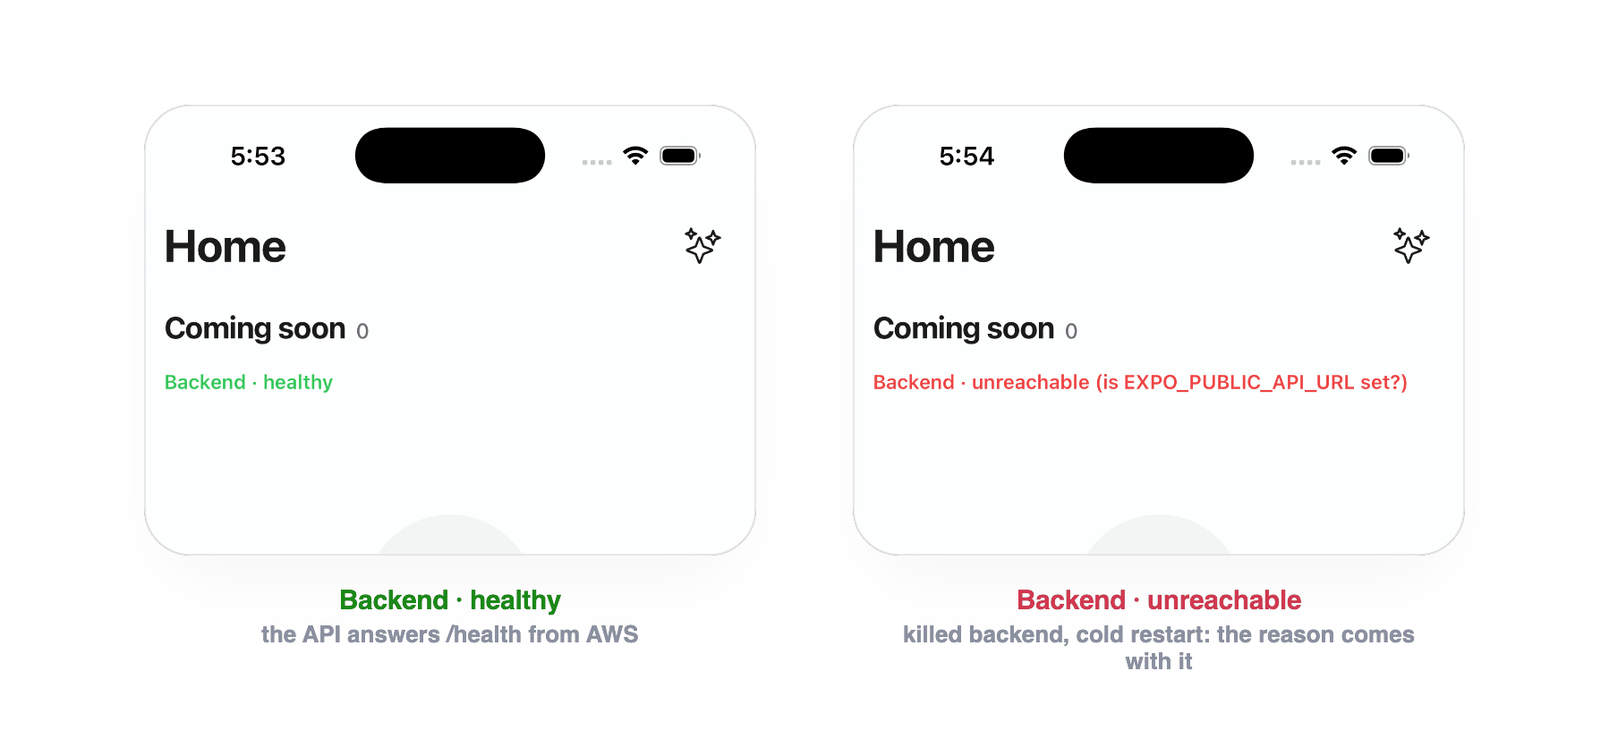
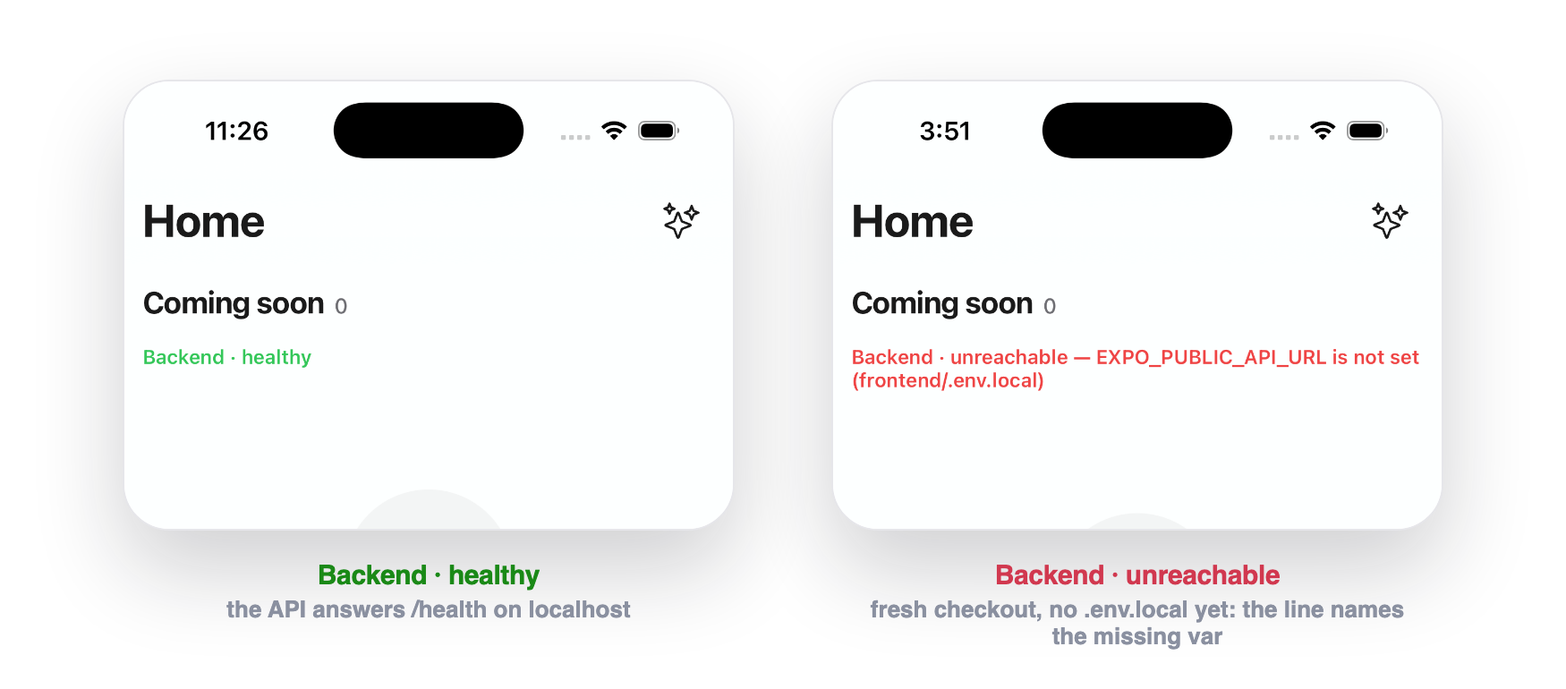
content(03-backend-core): apply 11 certification-review fixes
Applied to medium/03-backend-core.md and mirrored to the paste .html;
images re-rendered from their committed HTML sources.

- F1: recaptured shot-03-unreachable.png with the REAL app string
  (env-missing: "Backend · unreachable — EXPO_PUBLIC_API_URL is not set
  (frontend/.env.local)"); recaptured shot-03-healthy.png on the same
  simulator for a consistent proof composite. No more fabricated string.
- F2: The code line points at the step folder on main (current source),
  with PR #16 as the build's Files-changed story and the PR #21 follow-up.
- F3: teardown made truthful in subtitle, hero, and body (terraform
  destroy plus the one log-group sweep, not "nothing in one command").
- F4: SBOM overclaim fixed — provenance is the default culprit; the flag
  pins both attestations off (SBOM is opt-in).
- F5: file-map gains the terraform.tfvars.example row; count 18 -> 19.
- F6: added the real local-run command; done-when -> npx expo start -c --localhost.
- F7: footer 07 -> Whose Wish Is It Anyway?.
- F9: hero JSON {"status":"healthy"} (no space); 4th rollout command shown.
- F10: proof caption recaptioned to the local-run scenario.
- F11: trimmed the restated earn-dependencies lesson and the repeated
  "tag search proves it is gone".

Also restored parity in the paste .html (ecr:* / "*" code spans that the
prior mirror had mangled into <em> tags).

diff --git a/medium/03-backend-core.html b/medium/03-backend-core.html
@@ -26,7 +26,7 @@ a{color:#1a8917}
 font-size:15px;font-family:-apple-system,sans-serif;color:#7a6a00}
 </style></head><body>
 <h1>Alive on Arrival</h1>
-<p class="subtitle"><em>Zero to Shipped, step 3. A FastAPI backend live on your own AWS in four commands, torn down to nothing in one, and the two ways an image that runs on your laptop still arrives dead on App Runner.</em></p>
+<p class="subtitle"><em>Zero to Shipped, step 3. A FastAPI backend live on your own AWS in four commands, torn down to zero spend when you're done, and the two ways an image that runs on your laptop still arrives dead on App Runner.</em></p>
 <figure><img src="https://raw.githubusercontent.com/srivardhanjalan/kivan-tutorial/main/mocks/mocks-hero-03.png?v=PLACEHOLDER" alt="Zero to Shipped 03 hero: the app showing a green Backend healthy line beside a terminal running the staged rollout, ending in the App Runner service creation complete and curl returning status healthy"><figcaption>Zero to Shipped 03 hero: the app showing a green Backend healthy line beside a terminal running the staged rollout, ending in the App Runner service creation complete and curl returning status healthy</figcaption></figure>
 <p class="subtitle"><em>Zero to Shipped, step 3 of a production social-wishlist app built one shippable step at a time on Expo, FastAPI, and AWS.</em></p>
 <p class="subtitle"><em><a href="https://github.com/srivardhanjalan/kivan-tutorial">All the code</a> is on GitHub, every step a runnable folder.</em></p>
@@ -34,37 +34,37 @@ font-size:15px;font-family:-apple-system,sans-serif;color:#7a6a00}
 <p>The app has been a shell. Real screens, real navigation, and nothing behind them: every tab reads &quot;coming soon&quot; because there is no server to ask. This step gives the app a backend of its own, a FastAPI service running on AWS infrastructure you control. Writing the skeleton is the easy part. Getting it live, clean, and honest is the work, because it is four problems at once:</p>
 <ul><li><strong>A cloud stack leaves orphans.</strong> Click a resource into the console and it is untagged, ungrouped, and billed long after you think you tore it down.</li><li><strong>The service can&#x27;t boot from nothing.</strong> App Runner needs an image before it will create the service, but the image needs a registry that does not exist yet.</li><li><strong>An image that runs on your laptop can die on AWS.</strong> It builds, it runs locally, and App Runner rejects it with a bare failure and no logs to say why.</li><li><strong>A green status has to be earned.</strong> The app should prove it reaches the backend, and say why when it can&#x27;t, not just show a hopeful dot.</li></ul>
 <h2>What we build</h2>
-<p>A FastAPI backend deployed to your own AWS, every resource tagged into one group, torn down to nothing with a single command. Five moves get us there.</p>
+<p>A FastAPI backend deployed to your own AWS, every resource tagged into one group, torn down with <code>terraform destroy</code> plus one sweep for the two log groups App Runner writes on its own. Five moves get us there.</p>
 <p>We start with a skeleton that earns its dependencies: <code>main.py</code> only assembles, each route lives in its own file, and <code>requirements.txt</code> is two lines because the app reads nothing else yet. The stack lives in Terraform, one file per concern, and the provider stamps <code>Project</code> and <code>Environment</code> on every resource, so a single tag query lists the whole thing and proves when it is gone. That closes the orphan problem. The first rollout is staged into four commands, registry first and the service last, so App Runner never looks at an empty registry. The build runs one specific way, amd64 with attestations off, which is the difference between an image that boots on AWS and one that dies there. And the app grows a proof-of-life line: a green Backend healthy when it reaches the API, a red Backend unreachable with the reason when it can&#x27;t.</p>
 <p>What this step is not: there is no database, no auth, no queue. Those arrive with the steps that consume them (sign-in is step 4). The backend earns its dependencies exactly the way the frontend earned its design tokens back in step 2. Nothing joins before its first caller.</p>
 <p><strong>What we need:</strong> step 2 complete, an AWS account, and the Docker, Terraform, and AWS CLI that step 1&#x27;s setup installed (including the colima-rosetta Docker context). No secrets this step.</p>
 <p><strong>Time:</strong> about 45 to 60 minutes, most of it the first deploy.</p>
-<p><strong>The code:</strong> the snippets below are shown as images; the full, copyable source lives in <a href="https://github.com/srivardhanjalan/kivan-tutorial/pull/16/files">PR #16: Files changed</a>, organized by the file paths in each caption.</p>
+<p><strong>The code:</strong> the snippets below are shown as images; the full, copyable source is the <a href="https://github.com/srivardhanjalan/kivan-tutorial/tree/main/03-backend-core">step folder on <code>main</code></a>, organized by the file paths in each caption. <a href="https://github.com/srivardhanjalan/kivan-tutorial/pull/16/files">PR #16: Files changed</a> is the build&#x27;s story, with a follow-up in PR #21 tightening the ECR pulls to this one repository and dropping a credentialed wildcard CORS.</p>
 <h2>What we touch this step</h2>
-<p>Eighteen files carry the work, across the backend, the app, and the infra. Each build section below takes one area.</p>
-<figure><img src="https://raw.githubusercontent.com/srivardhanjalan/kivan-tutorial/main/mocks/mocks-03-filemap.png?v=PLACEHOLDER" alt="What we touch this step, eighteen files grouped by folder: the backend FastAPI skeleton (health route, main assembler, run, Dockerfile, requirements), the frontend proof-of-life line (api, ApiStatus, placeholder screen, env example), and the infra one file per concern (ecr, apprunner, iam, providers, resource-group, variables, outputs, deploy.sh); each file marked new or modified"><figcaption>What we touch this step, eighteen files grouped by folder: the backend FastAPI skeleton (health route, main assembler, run, Dockerfile, requirements), the frontend proof-of-life line (api, ApiStatus, placeholder screen, env example), and the infra one file per concern (ecr, apprunner, iam, providers, resource-group, variables, outputs, deploy.sh); each file marked new or modified</figcaption></figure>
+<p>Nineteen files carry the work, across the backend, the app, and the infra. Each build section below takes one area.</p>
+<figure><img src="https://raw.githubusercontent.com/srivardhanjalan/kivan-tutorial/main/mocks/mocks-03-filemap.png?v=PLACEHOLDER" alt="What we touch this step, nineteen files grouped by folder: the backend FastAPI skeleton (health route, main assembler, run, Dockerfile, requirements), the frontend proof-of-life line (api, ApiStatus, placeholder screen, env example), and the infra one file per concern (ecr, apprunner, iam, providers, resource-group, variables, outputs, tfvars example, deploy.sh); each file marked new or modified"><figcaption>What we touch this step, nineteen files grouped by folder: the backend FastAPI skeleton (health route, main assembler, run, Dockerfile, requirements), the frontend proof-of-life line (api, ApiStatus, placeholder screen, env example), and the infra one file per concern (ecr, apprunner, iam, providers, resource-group, variables, outputs, tfvars example, deploy.sh); each file marked new or modified</figcaption></figure>
 <h2>Give the backend a skeleton, not a framework</h2>
-<p>The temptation on a first backend is to wire in everything you will eventually need: a database client, an auth layer, a task queue. Resist it. Every dependency you add now is one you carry, patch, and debug before a single feature uses it. So the skeleton is bare on purpose: one health route, and an assembler that includes it.</p>
+<p>The skeleton is bare on purpose: one health route, and an assembler that includes it. That single route is all App Runner needs to health-check, and all the app needs to prove it can reach the backend.</p>
 <figure><a href="https://github.com/srivardhanjalan/kivan-tutorial/blob/main/03-backend-core/backend/app/routes/health.py"><img src="https://raw.githubusercontent.com/srivardhanjalan/kivan-tutorial/main/mocks/mocks-03-code-health.png?v=PLACEHOLDER" alt="The health route in its own file: GET /health returns status healthy"></a><figcaption><a class="src" href="https://github.com/srivardhanjalan/kivan-tutorial/blob/main/03-backend-core/backend/app/routes/health.py">The health route in its own file: GET /health returns status healthy ↗</a></figcaption></figure>
 <p><code>main.py</code> does nothing but assemble: it creates the app, adds gzip and CORS middleware, and includes the router. Routes never live in <code>main.py</code>; each domain gets its own file under <code>app/routes/</code>, so the structure that will hold every later router already holds this one. The CORS origin is a wildcard, and that is safe here on purpose: nothing is cookie-authenticated yet (the Bearer token arrives in step 4), so an open origin has no credentials to leak. <code>requirements.txt</code> is two lines, FastAPI and Uvicorn, and it stays that short until a feature needs more.</p>
 <h2>Describe the stack in Terraform, one file per concern</h2>
 <p>Everything the backend runs on is code in the <code>infra/</code> folder, and the first rule is that no resource is ever born in the console. A console-created resource is untagged and ungrouped, which means it survives <code>terraform destroy</code> and quietly bills you. So the provider stamps a <code>Project</code> and <code>Environment</code> tag on every resource it makes:</p>
 <figure><a href="https://github.com/srivardhanjalan/kivan-tutorial/blob/main/03-backend-core/infra/providers.tf"><img src="https://raw.githubusercontent.com/srivardhanjalan/kivan-tutorial/main/mocks/mocks-03-code-providers.png?v=PLACEHOLDER" alt="The AWS provider with default_tags, stamping Project and Environment on every resource"></a><figcaption><a class="src" href="https://github.com/srivardhanjalan/kivan-tutorial/blob/main/03-backend-core/infra/providers.tf">The AWS provider with default_tags, stamping Project and Environment on every resource ↗</a></figcaption></figure>
-<p>Those tags feed <code>resource-group.tf</code>, a group defined by one query: everything tagged <code>Project=kivan</code>. One console page then shows your whole stack, and a tag search across the account is how you prove it is gone after a teardown.</p>
+<p>Those tags feed <code>resource-group.tf</code>, a group defined by one query: everything tagged <code>Project=kivan</code>. One console page then shows your whole stack.</p>
 <p>The registry comes next. App Runner pulls the backend image from ECR, so <code>ecr.tf</code> creates the repository and a lifecycle rule that keeps only the last ten images, so old builds do not pile up:</p>
 <figure><a href="https://github.com/srivardhanjalan/kivan-tutorial/blob/main/03-backend-core/infra/ecr.tf"><img src="https://raw.githubusercontent.com/srivardhanjalan/kivan-tutorial/main/mocks/mocks-03-code-ecr.png?v=PLACEHOLDER" alt="The ECR repository and a lifecycle rule that keeps only the last ten images"></a><figcaption><a class="src" href="https://github.com/srivardhanjalan/kivan-tutorial/blob/main/03-backend-core/infra/ecr.tf">The ECR repository and a lifecycle rule that keeps only the last ten images ↗</a></figcaption></figure>
 <p>Then the service itself. <code>apprunner.tf</code> points App Runner at <code>:latest</code> in that registry, turns on auto-deploy so a new push rolls out on its own, and health-checks the container on <code>/health</code>, the exact route the skeleton serves:</p>
 <figure><a href="https://github.com/srivardhanjalan/kivan-tutorial/blob/main/03-backend-core/infra/apprunner.tf"><img src="https://raw.githubusercontent.com/srivardhanjalan/kivan-tutorial/main/mocks/mocks-03-code-apprunner.png?v=PLACEHOLDER" alt="The App Runner service pointed at :latest, auto-deploying, health-checked on /health"></a><figcaption><a class="src" href="https://github.com/srivardhanjalan/kivan-tutorial/blob/main/03-backend-core/infra/apprunner.tf">The App Runner service pointed at :latest, auto-deploying, health-checked on /health ↗</a></figcaption></figure>
 <h2>Give App Runner the smallest key that works</h2>
-<p>App Runner needs to pull images, and the lazy grant is <code>ecr:<em></code> on <code>&quot;</em>&quot;</code>. We don&#x27;t. The role gets exactly two things: permission to fetch a registry login token, which genuinely has to be account-wide, and permission to pull images from this one repository, named by ARN. Nothing else.</p>
+<p>App Runner needs to pull images, and the lazy grant is <code>ecr:*</code> on <code>&quot;*&quot;</code>. We don&#x27;t. The role gets exactly two things: permission to fetch a registry login token, which genuinely has to be account-wide, and permission to pull images from this one repository, named by ARN. Nothing else.</p>
 <figure><a href="https://github.com/srivardhanjalan/kivan-tutorial/blob/main/03-backend-core/infra/iam.tf"><img src="https://raw.githubusercontent.com/srivardhanjalan/kivan-tutorial/main/mocks/mocks-03-code-iam.png?v=PLACEHOLDER" alt="The ECR-access policy: a login token account-wide, image pulls scoped to one repository by ARN"></a><figcaption><a class="src" href="https://github.com/srivardhanjalan/kivan-tutorial/blob/main/03-backend-core/infra/iam.tf">The ECR-access policy: a login token account-wide, image pulls scoped to one repository by ARN ↗</a></figcaption></figure>
 <p>The split matters. <code>ecr:GetAuthorizationToken</code> issues the login and cannot be scoped to a repository, so it takes <code>&quot;*&quot;</code>; every other action is pinned to <code>aws_ecr_repository.backend.arn</code>. If this role ever leaks, it can read one repository&#x27;s images, not touch your whole account.</p>
 <h2>Let the app prove it can reach the backend</h2>
 <p>A backend you can&#x27;t see from the app is a backend you can&#x27;t trust. So step 2&#x27;s shell grows one honest line under each tab header. It calls <code>/health</code> on startup and reports what happened.</p>
 <figure><a href="https://github.com/srivardhanjalan/kivan-tutorial/blob/main/03-backend-core/frontend/src/services/api.ts"><img src="https://raw.githubusercontent.com/srivardhanjalan/kivan-tutorial/main/mocks/mocks-03-code-api.png?v=PLACEHOLDER" alt="The API root: reads EXPO_PUBLIC_API_URL from .env.local, resolves on /health, rejects with a readable reason"></a><figcaption><a class="src" href="https://github.com/srivardhanjalan/kivan-tutorial/blob/main/03-backend-core/frontend/src/services/api.ts">The API root: reads EXPO_PUBLIC_API_URL from .env.local, resolves on /health, rejects with a readable reason ↗</a></figcaption></figure>
 <p><code>api.ts</code> holds the whole contract. It reads <code>EXPO_PUBLIC_API_URL</code> from the gitignored <code>.env.local</code> (your localhost while developing, your App Runner URL once deployed) and resolves only when <code>/health</code> answers. When it can&#x27;t, it rejects with a human-readable reason, and the <code>ApiStatus</code> line renders that reason in red. The caller shows the line; <code>api.ts</code> owns the diagnosis, so the app never shows a vague failure.</p>
-<p>Run the backend locally, point <code>.env.local</code> at <code>http://localhost:8000</code>, and every tab turns green. Kill the backend, cold-restart the app, and the same line turns red and tells you why.</p>
-<figure><img src="https://raw.githubusercontent.com/srivardhanjalan/kivan-tutorial/main/mocks/mocks-03-proof.png?v=PLACEHOLDER" alt="The proof-of-life line in the real app: a green Backend healthy when the API answers, a red Backend unreachable with the reason after a killed backend and cold restart"><figcaption>The proof-of-life line in the real app: a green Backend healthy when the API answers, a red Backend unreachable with the reason after a killed backend and cold restart</figcaption></figure>
+<p>Run the backend locally with <code>cd backend &amp;&amp; python3 -m venv .venv &amp;&amp; .venv/bin/pip install -r requirements.txt &amp;&amp; .venv/bin/python run.py</code>, point <code>.env.local</code> at <code>http://localhost:8000</code>, and every tab turns green. Miss that <code>.env.local</code> on a fresh checkout, or kill the backend and cold-restart, and the same line turns red and names the exact reason.</p>
+<figure><img src="https://raw.githubusercontent.com/srivardhanjalan/kivan-tutorial/main/mocks/mocks-03-proof.png?v=PLACEHOLDER" alt="The proof-of-life line in the real app: a green Backend healthy when the API answers on localhost, and a red Backend unreachable naming the missing EXPO_PUBLIC_API_URL on a fresh checkout before .env.local exists"><figcaption>The proof-of-life line in the real app: a green Backend healthy when the API answers on localhost, and a red Backend unreachable naming the missing EXPO_PUBLIC_API_URL on a fresh checkout before .env.local exists</figcaption></figure>
 <h2>Deploy it</h2>
 <p>Now the real thing, on AWS. The first rollout is staged because of a chicken-and-egg: App Runner will not create a service from a registry with no image in it. So we build the registry, push an image into it, and only then create the service:</p>
 <figure><a href="https://github.com/srivardhanjalan/kivan-tutorial/tree/main/03-backend-core/infra"><img src="https://raw.githubusercontent.com/srivardhanjalan/kivan-tutorial/main/mocks/mocks-03-code-rollout.png?v=PLACEHOLDER" alt="The staged first rollout: terraform init, apply the ECR repository, deploy.sh to push an image, apply the service, deploy.sh again to tag the log groups"></a><figcaption><a class="src" href="https://github.com/srivardhanjalan/kivan-tutorial/tree/main/03-backend-core/infra">The staged first rollout: terraform init, apply the ECR repository, deploy.sh to push an image, apply the service, deploy.sh again to tag the log groups ↗</a></figcaption></figure>
@@ -73,14 +73,14 @@ font-size:15px;font-family:-apple-system,sans-serif;color:#7a6a00}
 <p>The fourth command is that same <code>deploy.sh</code>, run once more after the service exists. App Runner creates two log groups itself, named with a service ID that does not exist until the service does, so Terraform can&#x27;t own them; the re-run tags them into the resource group and caps their retention at 30 days. Grab the service URL from <code>terraform output</code>, put it in <code>.env.local</code>, restart Expo, and the green line is now served from AWS. When you&#x27;re done, <code>terraform destroy</code> removes the stack; sweep those two log groups after, and a tag search finds nothing left.</p>
 <h2>What bit me</h2>
 <p>Two things cost me real time on this step, worst first.</p>
-<p><strong><code>CREATE_FAILED</code>, empty logs, and the image was innocent.</strong> My first deploy on this step waited three minutes on <code>terraform apply</code>, then returned a bare <code>CREATE_FAILED</code> with an empty log group: the container never printed a line. The same image had built and run fine on my Mac. The cause was BuildKit. Newer Docker attaches provenance and SBOM attestation manifests to a push by default, which turns the image into an OCI index; updating an existing service tolerates that, but creating one does not, and it fails before the first log line, so there is nothing to read. Building with <code>--provenance=false --sbom=false</code> brought the service up <code>RUNNING</code> on identical application code. I had been hunting a bug in code that was never wrong. (There is a second, separate way to earn this exact failure: a QEMU-built amd64 image on Apple Silicon. Step 1&#x27;s colima-rosetta context is what keeps us clear of it, and it is why <code>deploy.sh</code> builds there.)</p>
+<p><strong><code>CREATE_FAILED</code>, empty logs, and the image was innocent.</strong> My first deploy on this step waited three minutes on <code>terraform apply</code>, then returned a bare <code>CREATE_FAILED</code> with an empty log group: the container never printed a line. The same image had built and run fine on my Mac. The cause was BuildKit. Newer Docker attaches a provenance attestation manifest to a push by default, which turns the image into an OCI index; updating an existing service tolerates that, but creating one does not, and it fails before the first log line, so there is nothing to read. Provenance is the default culprit; the deploy pins <code>--provenance=false --sbom=false</code> to keep every attestation manifest out of the push (SBOM is opt-in rather than default, but the flag keeps it out too), which brought the service up <code>RUNNING</code> on identical application code. I had been hunting a bug in code that was never wrong. (There is a second, separate way to earn this exact failure: a QEMU-built amd64 image on Apple Silicon. Step 1&#x27;s colima-rosetta context is what keeps us clear of it, and it is why <code>deploy.sh</code> builds there.)</p>
 <p><strong>The green line that stayed red after I pointed it at AWS.</strong> I deployed, put the App Runner URL in <code>.env.local</code>, reloaded the app, and the status line kept hitting localhost. <code>EXPO_PUBLIC_*</code> values are inlined at bundle time, not read at runtime, so a hot reload never picked up the new URL. Restarting the dev server with <code>npx expo start -c --localhost</code> (the <code>-c</code> clears the cache) was the fix, and the line went green against AWS.</p>
 <h2>You&#x27;re done when</h2>
-<ul><li>☐ <code>curl localhost:8000/health</code> returns <code>{&quot;status&quot;:&quot;healthy&quot;}</code>.</li><li>☐ Every tab shows a green Backend healthy line, first against localhost.</li><li>☐ After the four-command rollout and pointing <code>.env.local</code> at the App Runner URL (with <code>expo start -c</code>), the same green line is served from AWS.</li><li>☐ Stop the backend, cold-restart the app, and the line turns red with the reason.</li><li>☐ <code>terraform destroy</code> plus the log-group sweep leaves no resource behind: a tag search finds nothing.</li></ul>
+<ul><li>☐ <code>curl localhost:8000/health</code> returns <code>{&quot;status&quot;:&quot;healthy&quot;}</code>.</li><li>☐ Every tab shows a green Backend healthy line, first against localhost.</li><li>☐ After the four-command rollout and pointing <code>.env.local</code> at the App Runner URL (with <code>npx expo start -c --localhost</code>), the same green line is served from AWS.</li><li>☐ Stop the backend, cold-restart the app, and the line turns red with the reason.</li><li>☐ <code>terraform destroy</code> plus the log-group sweep leaves no resource behind: a tag search finds nothing.</li></ul>
 <h2>What&#x27;s next</h2>
 <p>Step 4, Signed, Sealed, Delivered: the app gets real users. Clerk sign-in, JWKS verification on the backend, and a user record created just in time, the moment <code>name</code> and <code>scheme</code> finally earn their place in the config.</p>
 <hr>
 <p><strong>Zero to Shipped: the series</strong></p>
-<ul><li><strong>00 · <a href="https://medium.com/@srivardhanjalan/zero-to-shipped-2c13ce7e20e9">Introduction</a></strong></li><li><strong>01 · <a href="https://medium.com/@srivardhanjalan/one-script-to-set-up-everything-ae8bcea2d649">One script to set up everything</a></strong></li><li><strong>02 · <a href="https://medium.com/@srivardhanjalan/dressed-to-ship-1e2591179d8a">Dressed to Ship</a></strong></li><li><strong>03 · Alive on Arrival</strong> (you are here)</li><li><strong>04 · <a href="https://medium.com/@srivardhanjalan/signed-sealed-delivered-a481a02ac392">Signed, Sealed, Delivered</a></strong></li><li><strong>05 · <a href="https://medium.com/@srivardhanjalan/two-places-at-once-1e00bb46354b">Two Places at Once</a></strong></li><li><strong>06 · <a href="https://medium.com/@srivardhanjalan/photos-without-the-exposure-96e9acf11db3">Photos Without the Exposure</a></strong></li><li><strong>07 · Collections</strong> (coming soon)</li></ul>
+<ul><li><strong>00 · <a href="https://medium.com/@srivardhanjalan/zero-to-shipped-2c13ce7e20e9">Introduction</a></strong></li><li><strong>01 · <a href="https://medium.com/@srivardhanjalan/one-script-to-set-up-everything-ae8bcea2d649">One script to set up everything</a></strong></li><li><strong>02 · <a href="https://medium.com/@srivardhanjalan/dressed-to-ship-1e2591179d8a">Dressed to Ship</a></strong></li><li><strong>03 · Alive on Arrival</strong> (you are here)</li><li><strong>04 · <a href="https://medium.com/@srivardhanjalan/signed-sealed-delivered-a481a02ac392">Signed, Sealed, Delivered</a></strong></li><li><strong>05 · <a href="https://medium.com/@srivardhanjalan/two-places-at-once-1e00bb46354b">Two Places at Once</a></strong></li><li><strong>06 · <a href="https://medium.com/@srivardhanjalan/photos-without-the-exposure-96e9acf11db3">Photos Without the Exposure</a></strong></li><li><strong>07 · Whose Wish Is It Anyway?</strong> (coming soon)</li></ul>
 <p><strong><a href="https://github.com/srivardhanjalan/kivan-tutorial">All the code on GitHub</a></strong></p>
 </body></html>

diff --git a/mocks/img-03-filemap.html b/mocks/img-03-filemap.html
@@ -30,7 +30,7 @@
   <h1>What we touch this step
     <span class="legend"><span><span class="dot new"></span>new</span><span><span class="dot mod"></span>modified</span></span>
   </h1>
-  <p class="sub">Eighteen files carry the work, across the backend, the app, and the infra. Each section below builds one area.</p>
+  <p class="sub">Nineteen files carry the work, across the backend, the app, and the infra. Each section below builds one area.</p>
   <div class="cols">
     <div class="grp">
       <h2>Backend &#183; the FastAPI skeleton</h2>
@@ -61,6 +61,7 @@
       <div class="row"><span class="badge b-new">new</span><span class="fc"><span class="path">providers.tf</span><span class="note"># AWS provider, default_tags on every resource</span></span></div>
       <div class="row"><span class="badge b-new">new</span><span class="fc"><span class="path">resource-group.tf</span><span class="note"># the tag-based group holding the whole stack</span></span></div>
       <div class="row"><span class="badge b-new">new</span><span class="fc"><span class="path">variables.tf &#183; outputs.tf</span><span class="note"># region/env/cpu, the service + ECR URLs</span></span></div>
+      <div class="row"><span class="badge b-new">new</span><span class="fc"><span class="path">terraform.tfvars.example</span><span class="note"># copy to terraform.tfvars (gitignored)</span></span></div>
       <div class="row"><span class="badge b-new">new</span><span class="fc"><span class="path">scripts/deploy.sh</span><span class="note"># build amd64, push, tag the log groups</span></span></div>
     </div>
   </div>

diff --git a/mocks/hero-03.html b/mocks/hero-03.html
@@ -26,7 +26,7 @@
   <div class="copy">
     <div class="eyebrow">Zero to Shipped &#183; 03 &#183; Backend Core</div>
     <div class="title">Alive on&nbsp;arrival.</div>
-    <div class="sub">A FastAPI backend live on your own AWS in four commands, every resource tagged and grouped, gone without a trace in one.</div>
+    <div class="sub">A FastAPI backend live on your own AWS in four commands, every resource tagged and grouped, torn down to zero spend when you're done.</div>
     <div class="chips">
       <span class="chip">React Native</span><span class="chip">FastAPI</span>
       <span class="chip">Terraform</span><span class="chip">App Runner</span><span class="chip">Amazon ECR</span>
@@ -44,8 +44,9 @@
 <span class="dim">$</span> ./scripts/deploy.sh&nbsp;&nbsp;<span class="dim"># build amd64 -&gt; push</span><br>
 <span class="dim">$</span> terraform apply&nbsp;&nbsp;<span class="dim"># the service (~5 min)</span><br>
 &nbsp;&nbsp;aws_apprunner_service.backend_ecr: <span class="g">Creation complete</span><br>
+<span class="dim">$</span> ./scripts/deploy.sh&nbsp;&nbsp;<span class="dim"># re-run: tag log groups</span><br>
 <span class="dim">$</span> curl https://&#8230;awsapprunner.com/health<br>
-{"status": <span class="g">"healthy"</span>}
+{"status":<span class="g">"healthy"</span>}
     </div>
   </div>
   <div class="shot"><img src="shot-03-healthy.png"></div>

diff --git a/mocks/img-03-proof.html b/mocks/img-03-proof.html
@@ -15,12 +15,12 @@
     <div class="item">
       <div class="phone"><img src="shot-03-healthy.png"></div>
       <div class="cap up">Backend &#183; healthy</div>
-      <div class="sub">the API answers /health from AWS</div>
+      <div class="sub">the API answers /health on localhost</div>
     </div>
     <div class="item">
       <div class="phone"><img src="shot-03-unreachable.png"></div>
       <div class="cap down">Backend &#183; unreachable</div>
-      <div class="sub">killed backend, cold restart: the reason comes with it</div>
+      <div class="sub">fresh checkout, no .env.local yet: the line names the missing var</div>
     </div>
   </div>
 </body></html>

diff --git a/medium/03-backend-core.md b/medium/03-backend-core.md
@@ -1,6 +1,6 @@
 # Alive on Arrival
 
-*Zero to Shipped, step 3. A FastAPI backend live on your own AWS in four commands, torn down to nothing in one, and the two ways an image that runs on your laptop still arrives dead on App Runner.*
+*Zero to Shipped, step 3. A FastAPI backend live on your own AWS in four commands, torn down to zero spend when you're done, and the two ways an image that runs on your laptop still arrives dead on App Runner.*
 
 ![Zero to Shipped 03 hero: the app showing a green Backend healthy line beside a terminal running the staged rollout, ending in the App Runner service creation complete and curl returning status healthy](https://raw.githubusercontent.com/srivardhanjalan/kivan-tutorial/main/mocks/mocks-hero-03.png?v=PLACEHOLDER)
 
@@ -19,7 +19,7 @@ The app has been a shell. Real screens, real navigation, and nothing behind them
 
 ## What we build
 
-A FastAPI backend deployed to your own AWS, every resource tagged into one group, torn down to nothing with a single command. Five moves get us there.
+A FastAPI backend deployed to your own AWS, every resource tagged into one group, torn down with `terraform destroy` plus one sweep for the two log groups App Runner writes on its own. Five moves get us there.
 
 We start with a skeleton that earns its dependencies: `main.py` only assembles, each route lives in its own file, and `requirements.txt` is two lines because the app reads nothing else yet. The stack lives in Terraform, one file per concern, and the provider stamps `Project` and `Environment` on every resource, so a single tag query lists the whole thing and proves when it is gone. That closes the orphan problem. The first rollout is staged into four commands, registry first and the service last, so App Runner never looks at an empty registry. The build runs one specific way, amd64 with attestations off, which is the difference between an image that boots on AWS and one that dies there. And the app grows a proof-of-life line: a green Backend healthy when it reaches the API, a red Backend unreachable with the reason when it can't.
 
@@ -29,17 +29,17 @@ What this step is not: there is no database, no auth, no queue. Those arrive wit
 
 **Time:** about 45 to 60 minutes, most of it the first deploy.
 
-**The code:** the snippets below are shown as images; the full, copyable source lives in [PR #16: Files changed](https://github.com/srivardhanjalan/kivan-tutorial/pull/16/files), organized by the file paths in each caption.
+**The code:** the snippets below are shown as images; the full, copyable source is the [step folder on `main`](https://github.com/srivardhanjalan/kivan-tutorial/tree/main/03-backend-core), organized by the file paths in each caption. [PR #16: Files changed](https://github.com/srivardhanjalan/kivan-tutorial/pull/16/files) is the build's story, with a follow-up in PR #21 tightening the ECR pulls to this one repository and dropping a credentialed wildcard CORS.
 
 ## What we touch this step
 
-Eighteen files carry the work, across the backend, the app, and the infra. Each build section below takes one area.
+Nineteen files carry the work, across the backend, the app, and the infra. Each build section below takes one area.
 
-![What we touch this step, eighteen files grouped by folder: the backend FastAPI skeleton (health route, main assembler, run, Dockerfile, requirements), the frontend proof-of-life line (api, ApiStatus, placeholder screen, env example), and the infra one file per concern (ecr, apprunner, iam, providers, resource-group, variables, outputs, deploy.sh); each file marked new or modified](https://raw.githubusercontent.com/srivardhanjalan/kivan-tutorial/main/mocks/mocks-03-filemap.png?v=PLACEHOLDER)
+![What we touch this step, nineteen files grouped by folder: the backend FastAPI skeleton (health route, main assembler, run, Dockerfile, requirements), the frontend proof-of-life line (api, ApiStatus, placeholder screen, env example), and the infra one file per concern (ecr, apprunner, iam, providers, resource-group, variables, outputs, tfvars example, deploy.sh); each file marked new or modified](https://raw.githubusercontent.com/srivardhanjalan/kivan-tutorial/main/mocks/mocks-03-filemap.png?v=PLACEHOLDER)
 
 ## Give the backend a skeleton, not a framework
 
-The temptation on a first backend is to wire in everything you will eventually need: a database client, an auth layer, a task queue. Resist it. Every dependency you add now is one you carry, patch, and debug before a single feature uses it. So the skeleton is bare on purpose: one health route, and an assembler that includes it.
+The skeleton is bare on purpose: one health route, and an assembler that includes it. That single route is all App Runner needs to health-check, and all the app needs to prove it can reach the backend.
 
 [![The health route in its own file: GET /health returns status healthy](https://raw.githubusercontent.com/srivardhanjalan/kivan-tutorial/main/mocks/mocks-03-code-health.png?v=PLACEHOLDER)](https://github.com/srivardhanjalan/kivan-tutorial/blob/main/03-backend-core/backend/app/routes/health.py)
 
@@ -51,7 +51,7 @@ Everything the backend runs on is code in the `infra/` folder, and the first rul
 
 [![The AWS provider with default_tags, stamping Project and Environment on every resource](https://raw.githubusercontent.com/srivardhanjalan/kivan-tutorial/main/mocks/mocks-03-code-providers.png?v=PLACEHOLDER)](https://github.com/srivardhanjalan/kivan-tutorial/blob/main/03-backend-core/infra/providers.tf)
 
-Those tags feed `resource-group.tf`, a group defined by one query: everything tagged `Project=kivan`. One console page then shows your whole stack, and a tag search across the account is how you prove it is gone after a teardown.
+Those tags feed `resource-group.tf`, a group defined by one query: everything tagged `Project=kivan`. One console page then shows your whole stack.
 
 The registry comes next. App Runner pulls the backend image from ECR, so `ecr.tf` creates the repository and a lifecycle rule that keeps only the last ten images, so old builds do not pile up:
 
@@ -77,9 +77,9 @@ A backend you can't see from the app is a backend you can't trust. So step 2's s
 
 `api.ts` holds the whole contract. It reads `EXPO_PUBLIC_API_URL` from the gitignored `.env.local` (your localhost while developing, your App Runner URL once deployed) and resolves only when `/health` answers. When it can't, it rejects with a human-readable reason, and the `ApiStatus` line renders that reason in red. The caller shows the line; `api.ts` owns the diagnosis, so the app never shows a vague failure.
 
-Run the backend locally, point `.env.local` at `http://localhost:8000`, and every tab turns green. Kill the backend, cold-restart the app, and the same line turns red and tells you why.
+Run the backend locally with `cd backend && python3 -m venv .venv && .venv/bin/pip install -r requirements.txt && .venv/bin/python run.py`, point `.env.local` at `http://localhost:8000`, and every tab turns green. Miss that `.env.local` on a fresh checkout, or kill the backend and cold-restart, and the same line turns red and names the exact reason.
 
-![The proof-of-life line in the real app: a green Backend healthy when the API answers, a red Backend unreachable with the reason after a killed backend and cold restart](https://raw.githubusercontent.com/srivardhanjalan/kivan-tutorial/main/mocks/mocks-03-proof.png?v=PLACEHOLDER)
+![The proof-of-life line in the real app: a green Backend healthy when the API answers on localhost, and a red Backend unreachable naming the missing EXPO_PUBLIC_API_URL on a fresh checkout before .env.local exists](https://raw.githubusercontent.com/srivardhanjalan/kivan-tutorial/main/mocks/mocks-03-proof.png?v=PLACEHOLDER)
 
 ## Deploy it
 
@@ -97,7 +97,7 @@ The fourth command is that same `deploy.sh`, run once more after the service exi
 
 Two things cost me real time on this step, worst first.
 
-**`CREATE_FAILED`, empty logs, and the image was innocent.** My first deploy on this step waited three minutes on `terraform apply`, then returned a bare `CREATE_FAILED` with an empty log group: the container never printed a line. The same image had built and run fine on my Mac. The cause was BuildKit. Newer Docker attaches provenance and SBOM attestation manifests to a push by default, which turns the image into an OCI index; updating an existing service tolerates that, but creating one does not, and it fails before the first log line, so there is nothing to read. Building with `--provenance=false --sbom=false` brought the service up `RUNNING` on identical application code. I had been hunting a bug in code that was never wrong. (There is a second, separate way to earn this exact failure: a QEMU-built amd64 image on Apple Silicon. Step 1's colima-rosetta context is what keeps us clear of it, and it is why `deploy.sh` builds there.)
+**`CREATE_FAILED`, empty logs, and the image was innocent.** My first deploy on this step waited three minutes on `terraform apply`, then returned a bare `CREATE_FAILED` with an empty log group: the container never printed a line. The same image had built and run fine on my Mac. The cause was BuildKit. Newer Docker attaches a provenance attestation manifest to a push by default, which turns the image into an OCI index; updating an existing service tolerates that, but creating one does not, and it fails before the first log line, so there is nothing to read. Provenance is the default culprit; the deploy pins `--provenance=false --sbom=false` to keep every attestation manifest out of the push (SBOM is opt-in rather than default, but the flag keeps it out too), which brought the service up `RUNNING` on identical application code. I had been hunting a bug in code that was never wrong. (There is a second, separate way to earn this exact failure: a QEMU-built amd64 image on Apple Silicon. Step 1's colima-rosetta context is what keeps us clear of it, and it is why `deploy.sh` builds there.)
 
 **The green line that stayed red after I pointed it at AWS.** I deployed, put the App Runner URL in `.env.local`, reloaded the app, and the status line kept hitting localhost. `EXPO_PUBLIC_*` values are inlined at bundle time, not read at runtime, so a hot reload never picked up the new URL. Restarting the dev server with `npx expo start -c --localhost` (the `-c` clears the cache) was the fix, and the line went green against AWS.
 
@@ -105,7 +105,7 @@ Two things cost me real time on this step, worst first.
 
 - [ ] `curl localhost:8000/health` returns `{"status":"healthy"}`.
 - [ ] Every tab shows a green Backend healthy line, first against localhost.
-- [ ] After the four-command rollout and pointing `.env.local` at the App Runner URL (with `expo start -c`), the same green line is served from AWS.
+- [ ] After the four-command rollout and pointing `.env.local` at the App Runner URL (with `npx expo start -c --localhost`), the same green line is served from AWS.
 - [ ] Stop the backend, cold-restart the app, and the line turns red with the reason.
 - [ ] `terraform destroy` plus the log-group sweep leaves no resource behind: a tag search finds nothing.
 
@@ -124,6 +124,6 @@ Step 4, Signed, Sealed, Delivered: the app gets real users. Clerk sign-in, JWKS 
 - **04 · [Signed, Sealed, Delivered](https://medium.com/@srivardhanjalan/signed-sealed-delivered-a481a02ac392)**
 - **05 · [Two Places at Once](https://medium.com/@srivardhanjalan/two-places-at-once-1e00bb46354b)**
 - **06 · [Photos Without the Exposure](https://medium.com/@srivardhanjalan/photos-without-the-exposure-96e9acf11db3)**
-- **07 · Collections** (coming soon)
+- **07 · Whose Wish Is It Anyway?** (coming soon)
 
 **[All the code on GitHub](https://github.com/srivardhanjalan/kivan-tutorial)**
